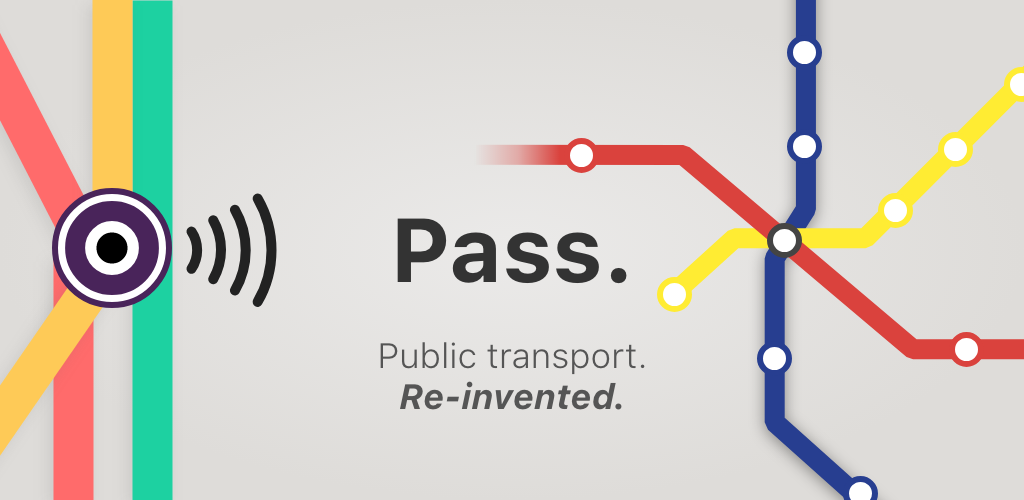
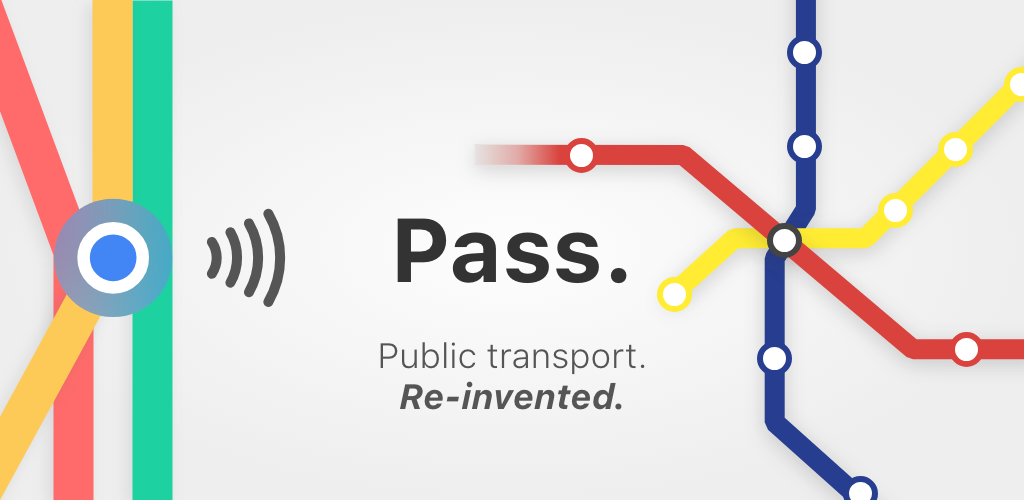
Updated BKK-less design specs (to prevent copyright claims) + README

diff --git a/client/src/passTypes.js b/client/src/passTypes.js
@@ -1,0 +1,97 @@
+/* THIS IS ONLY A DUMMY */
+/* THE REAL TYPES ARE GOING TO BE FETCHED FROM THE SERVER */
+
+export default {
+    // 24 HOUR
+    _24: {
+        type: '24',
+        name: '24 Hour Budapest Pass',
+        price: 1650,
+        // validity: new Date () + 24 hours
+    },
+    _24_BUBI: {
+
+    },
+    // 48 HOUR
+    _48: {
+
+    },
+    _48_BUBI: {
+
+    },
+    // 72 HOUR
+    _72: {
+
+    },
+    _72_BUBI: {
+
+    },
+    // WEEKLY
+    _week: {
+
+    },
+    _week_BUBI: {
+
+    },
+    // MONTHLY
+    M_Full: {
+
+    },
+    M_Pupil: {
+
+    },
+    M_Student: {
+
+    },
+    M_Senior: {
+
+    },
+    M_Business: {
+
+    },
+    M_BUBI: {
+
+    },
+    // SEMESTER
+    Semester: {
+
+    },
+    // CALENDAR YEAR
+    Y_Full: {
+
+    },
+    Y_Pupil: {
+
+    },
+    Y_Student: {
+
+    },
+    Y_Senior: {
+
+    },
+    Y_Business: {
+
+    },
+    Y_BUBI: {
+
+    },
+    // 365 DAY
+    _365_Full: {
+
+    },
+    _365_Pupil: {
+
+    },
+    _365_Student: {
+
+    },
+    _365_Senior: {
+
+    },
+    _365_Business: {
+
+    },
+    _365_BUBI: {
+        
+    }
+}

diff --git a/client/src/components/PassCard.js b/client/src/components/PassCard.js
@@ -55,6 +55,7 @@ class PassCard extends Component {
         return require("../assets/person.png");
     }
   }
+
   render() {
     const { type } = this.props;
 

diff --git a/README.md b/README.md
@@ -1,5 +1,5 @@
 # Pass
-[WIP] An open-source electronic public transport ticket system made for Budapest.
+[WIP] An open-source electronic public transport ticket system.
 
 ![Pass banner with slogan](https://github.com/dandesz198/pass/blob/master/assets/Banner%20-%20with%20slogan.png?raw=true)
 
@@ -8,6 +8,19 @@ Budapest already tried to accomplish creating a system like MetroCard or Oyster 
 
 ## Are you serious?
 Yes, totally. Also, it's our school project, so we are definietly going to work on this consistently so that we don't get a bad grade.
+
+## Main goals
+* *Phase 1* Develop a QR-code based electronic public transport ticket and pass system 
+* *Phase 2* Add support for NFC cards
+  * Possibly build a demo
+* *Phase 3* Add support for prepaid-type accounts
+* *Phase 4* Get a city to use this system
+
+## While developing, try to keep an eye on
+* Writing readable, reusable, clean, efficient and modern code
+* Consistent, `camelCased` naming
+* Try to avoid code or feature duplication
+* Try to avoid dependency hell, use as few dependencies as possible
 
 ## How can I contribute?
 
@@ -25,7 +38,7 @@ Yes, totally. Also, it's our school project, so we are definietly going to work 
 ## Resources
 [Design conception for the passanger-facing frontend](https://szifon.com/2017/07/30/bkk-online-shop-design-koncepcio/)
 
-[Branding assets and stuff (Adobe XD)](https://xd.adobe.com/spec/1661cfda-8373-48a4-4555-6d6bc09d04e7-6050/)
+[Branding assets and stuff (Adobe XD)](https://xd.adobe.com/spec/9dcdf89b-04bb-4434-4c9d-3ba40da735e6-ebfc/)
 
 ## Support us!
 
